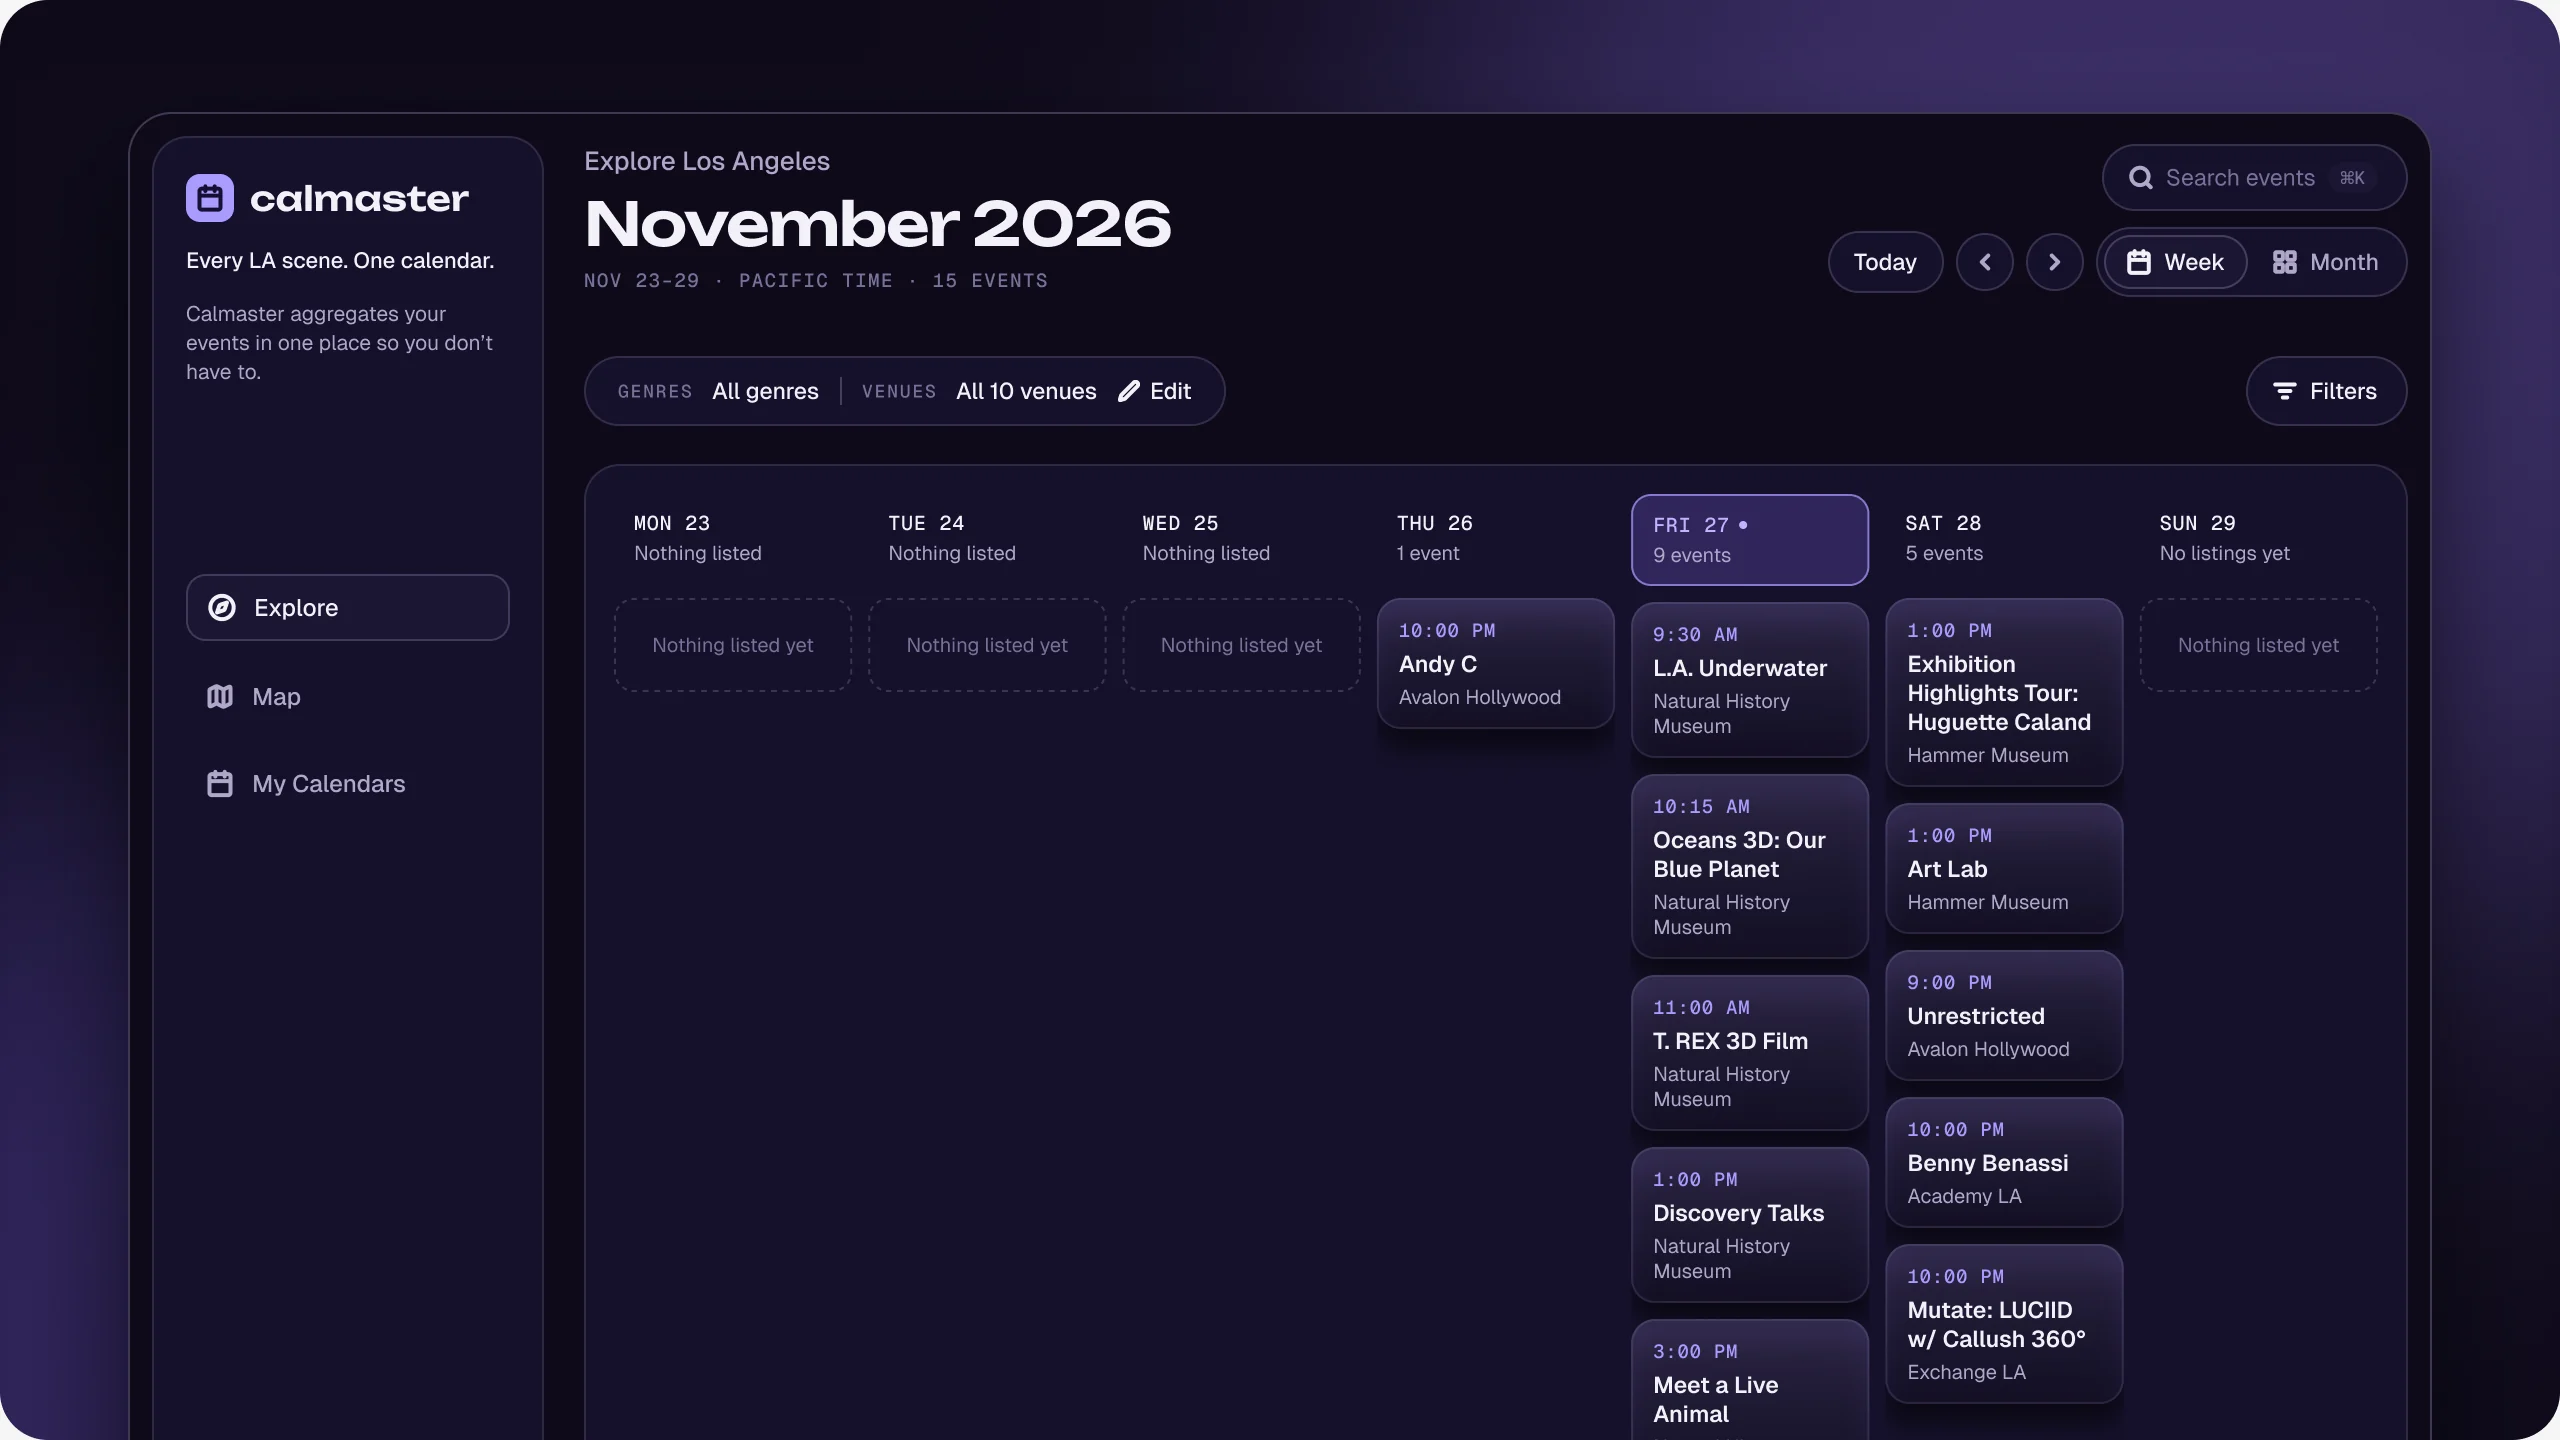
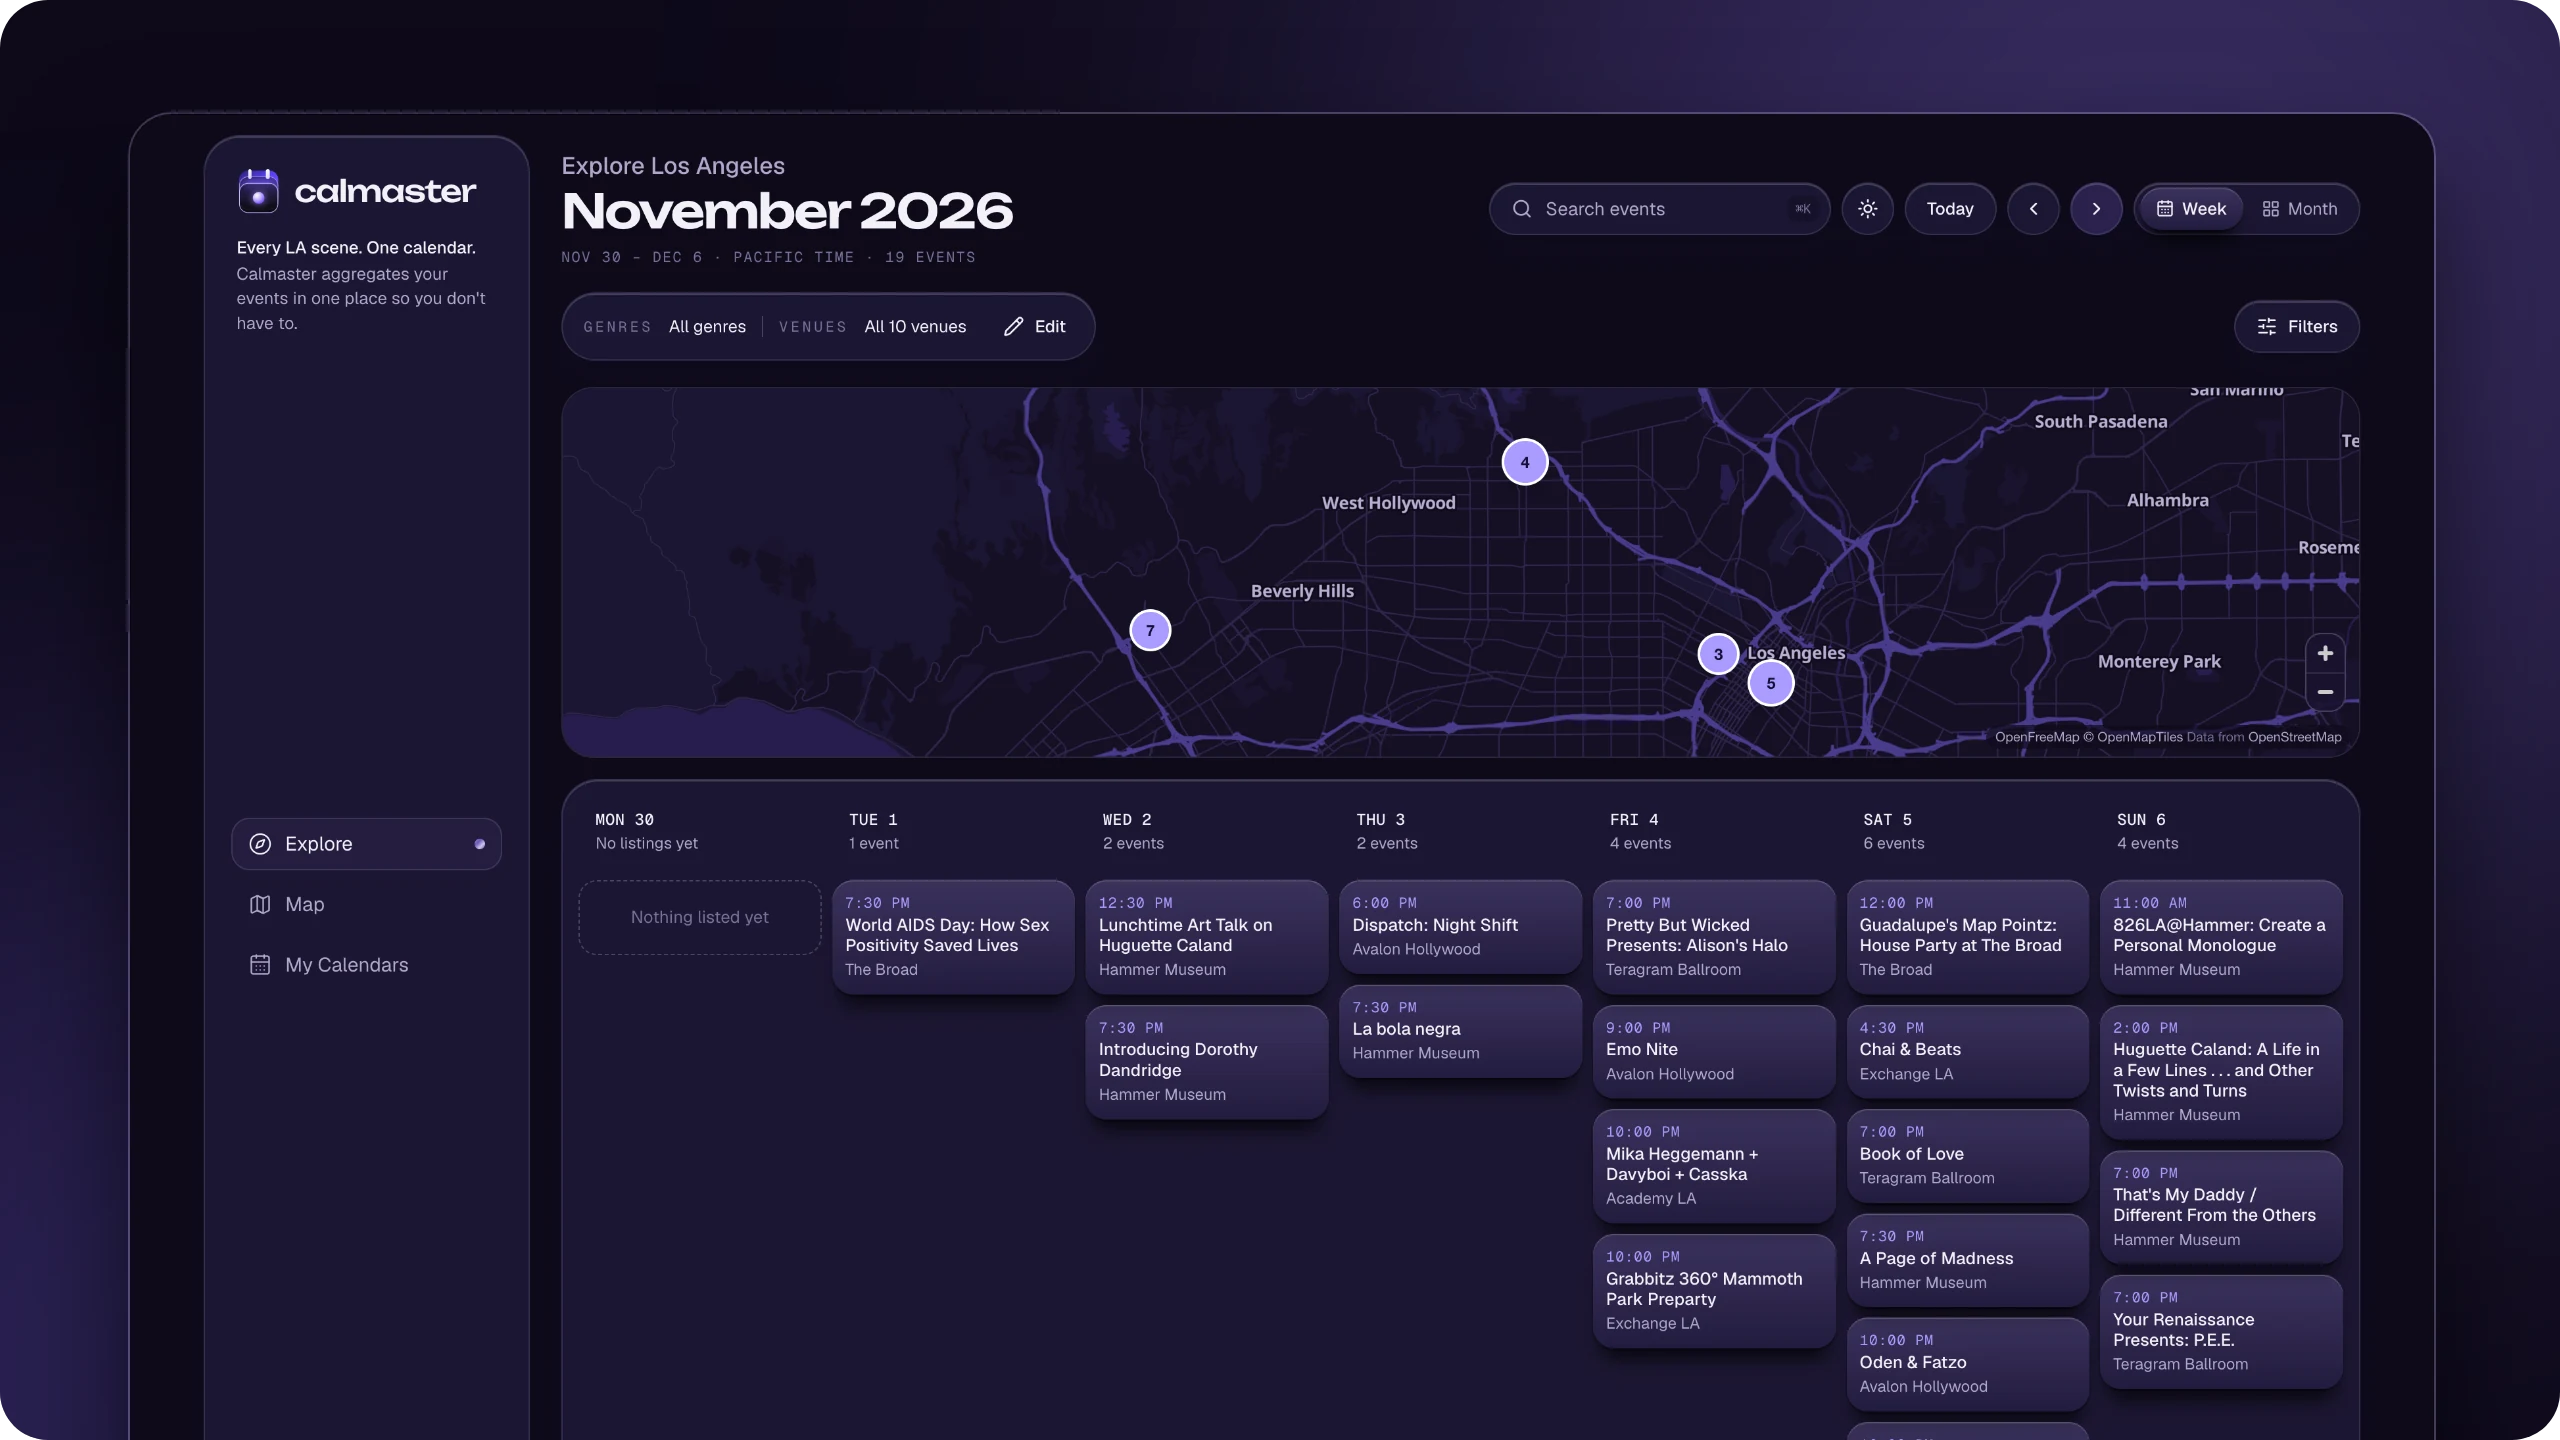
Use the live CalMaster week view with map for the case study cover
Claude-Session: https://claude.ai/code/session_01Tcn19b3bRHSeqqwkTftCsQ

diff --git a/lib/site.ts b/lib/site.ts
@@ -71,7 +71,7 @@ export const projects: Project[] = [
       liveUrl: "https://calmaster.vercel.app/",
       cover: {
         src: "/work/calmaster/cover.webp",
-        alt: "CalMaster Explore view: a week of LA events stacked by start time",
+        alt: "CalMaster Explore view: the LA venue map above a week of events, Nov 30 to Dec 6",
         width: 2560,
         height: 1440,
       },
